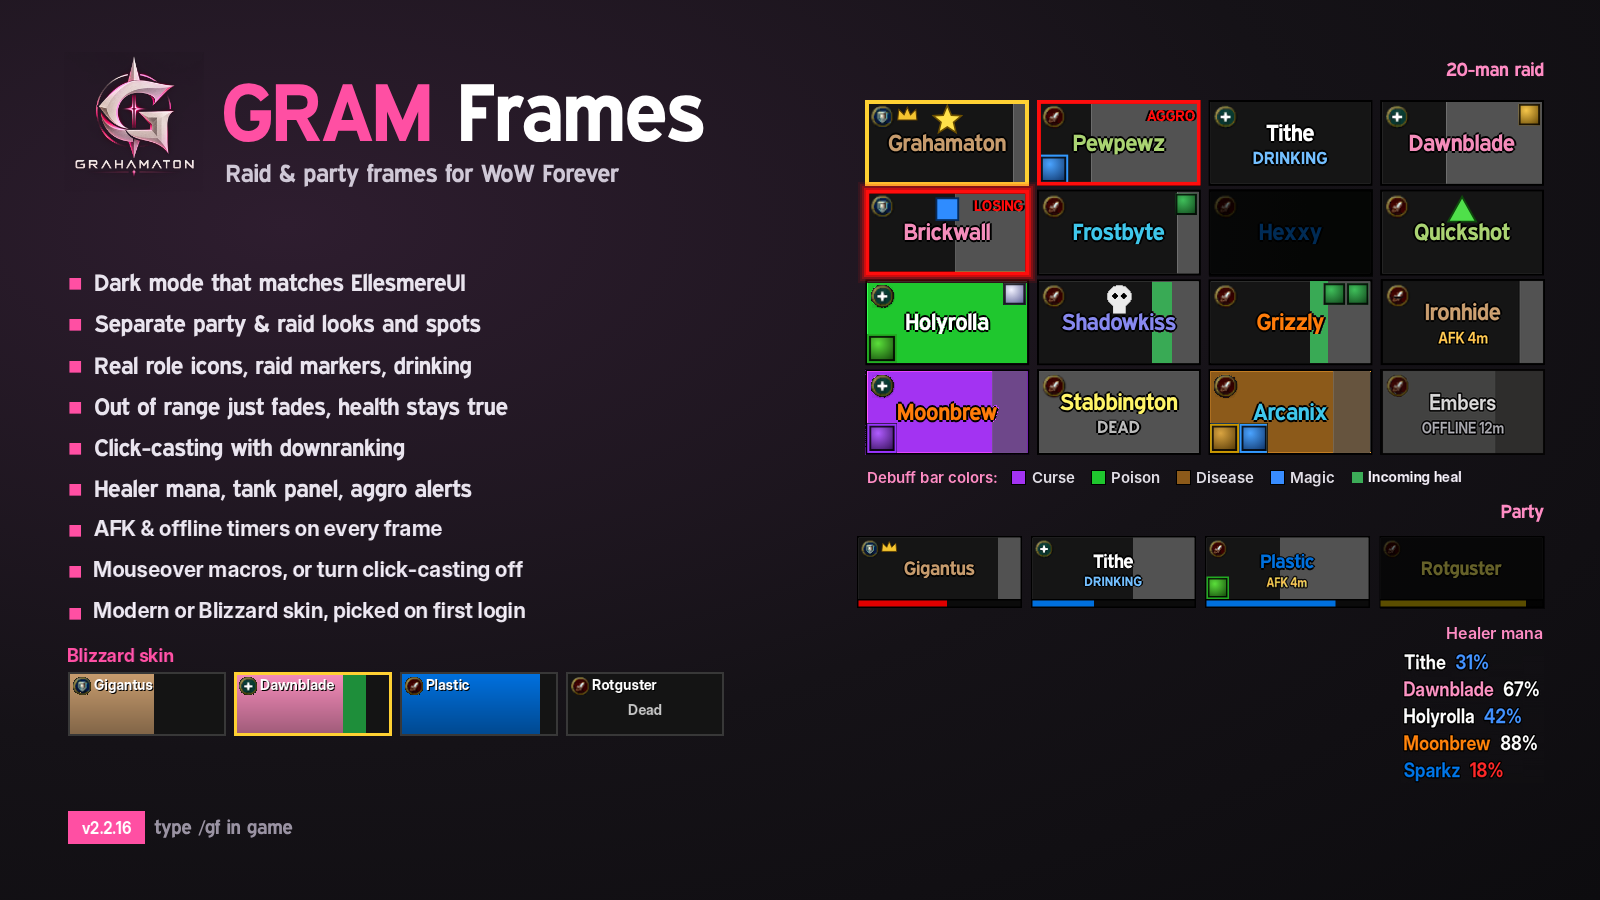
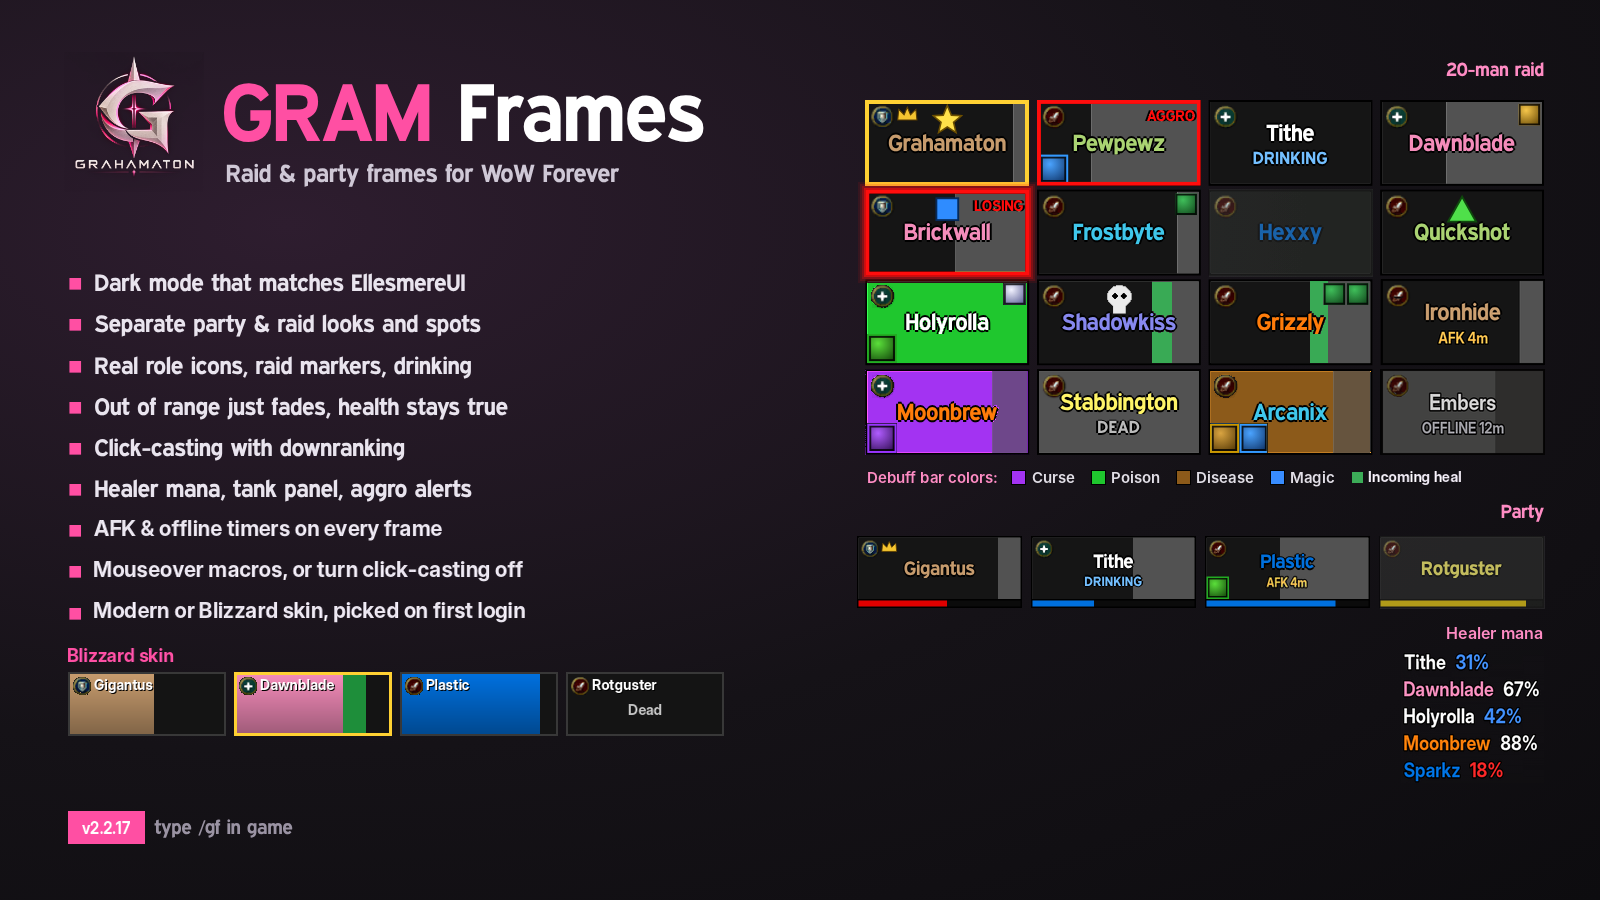
Gram Frames 2.2.17: lighter out-of-range look (grey wash, readable name)
Claude-Session: https://claude.ai/code/session_01QoGf5yo5Mq9qESaEJTN78D

Changed region(s): [[0.75, 0.1867, 0.875, 0.3111], [0.8438, 0.5911, 0.9688, 0.6844]]

diff --git a/CHANGELOG.md b/CHANGELOG.md
@@ -1,5 +1,8 @@
 # Gram Frames changelog
 
+## 2.2.17
+- Out of range frames are much lighter: a soft grey wash instead of dark, and the name stays easy to read. Still solid, so the ground doesn't show through.
+
 ## 2.2.16
 - Out of range frames stay solid now: the bars go darker and the name dims. Before, the whole frame went see-through, so the ground showed through (on grass it looked brown).
 - Offline frames are solid too.

diff --git a/README.md b/README.md
@@ -4,7 +4,7 @@
 
 Dark, clean raid and party frames for **WoW Forever**, built from scratch for tanks and healers who want full control without the clutter.
 
-**Version 2.2.16 (beta)** · Interface 16001 · type `/gf` in game
+**Version 2.2.17 (beta)** · Interface 16001 · type `/gf` in game
 
 What's new: see the [changelog](CHANGELOG.md).
 
